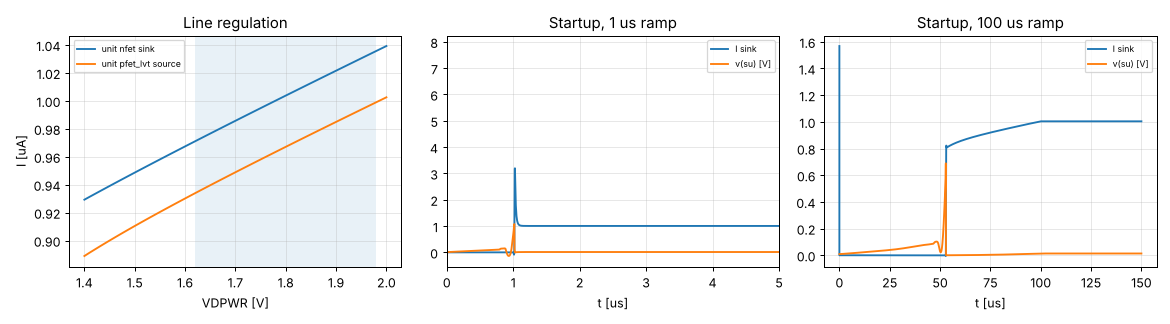
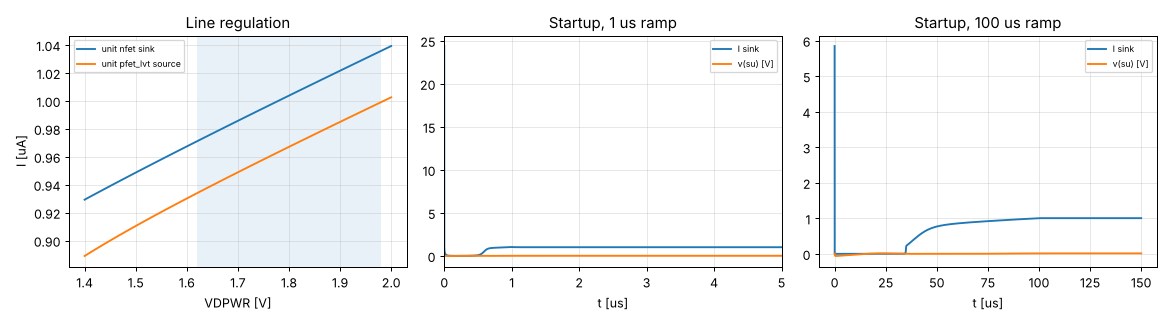
bias_gen: layout dummies in the schematic; nodesets for a robust .op
- MDN1/2 (nfet 2/2) and MDP1/2 (pfet_lvt 2/2), all terminals on the rail:
  netgen does not drop shorted devices, so they must be in the schematic.
- First corner sweep: at tt/27 C/1.98 V the plain .op converged to a
  non-physical point (v(nr) = 2e6 V, 0.32 uA) while the DC sweep and both
  startup transients give 1.036 uA. Nodesets near the running state; the
  corner report now cross-checks every .op current against the DC sweep.
  Sweep re-running.

Claude-Session: https://claude.ai/code/session_018xb9mH8bN9u9RTJdbtix1L

diff --git a/sim/bias/corners_report.py b/sim/bias/corners_report.py
@@ -19,11 +19,15 @@ for r in rows:
     r["su_ok"] = abs(r["ist_fast"] / r["isink"] - 1) < 0.01 and abs(r["ist_slow"] / r["isink"] - 1) < 0.01
 
 bad = [r for r in rows if r["rc"] != "0" or r["isink"] != r["isink"]]
+# the .op value must agree with the DC supply sweep at the same VDPWR (catches a non-converged .op)
+sweep_key = {1.62: "isink162", 1.8: "isink180", 1.98: "isink198"}
+op_bad = [r for r in rows if abs(r["isink"] / f(r, sweep_key[r["V"]]) - 1) > 0.01]
 nom = {r["corner"] + str(r["T"]): r for r in rows if r["V"] == 1.8}
 isk = [r["isink"] for r in rows]; isr = [r["isrc"] for r in rows]
 L = ["# bias_gen — Phase 2 corners (generated by corners_report.py)", "",
      f"{len(rows)} runs: corners tt/ff/ss/fs/sf × −40/27/125 °C × VDPWR 1.62/1.80/1.98 V. "
-     f"Failed runs: {len(bad)}.", "",
+     f"Failed runs: {len(bad)}. Runs where the .op current differs from the DC sweep by > 1 %: {len(op_bad)}"
+     + (" (" + ", ".join(r["tag"] for r in op_bad) + ")" if op_bad else "") + ".", "",
      "## Unit currents at VDPWR = 1.80 V (µA)", "",
      "| corner | sink −40 °C | sink 27 °C | sink 125 °C | source −40 °C | source 27 °C | source 125 °C |",
      "|---|---|---|---|---|---|---|"]

diff --git a/xschem/gen_bias_gen.py b/xschem/gen_bias_gen.py
@@ -38,6 +38,12 @@ p("MP2", "pbias", "pbias", "VDPWR", W=2, L=2, nf=1, mult=1)
 n("MN1", "nbias", "nbias", "VGND", W=2, L=2, nf=1, mult=1)
 n("MN2", "pbias", "nbias", "nr", W=2, L=2, nf=1, mult=4)
 s.dev(RX, "R1", {"P": "nr", "M": "VGND", "B": "VGND"}, W=0.35, L=R1_L, model="res_xhigh_po_0p35", spiceprefix="X", mult=1)
+# layout dummies (all terminals on the rail): ends of the MN1/MN2 row and of the MP1/MP2 row.
+# netgen does not drop shorted devices, so they are part of the schematic.
+for nm in ("MDN1", "MDN2"):
+    n(nm, "VGND", "VGND", "VGND", W=2, L=2, nf=1, mult=1)
+for nm in ("MDP1", "MDP2"):
+    p(nm, "VDPWR", "VDPWR", "VDPWR", W=2, L=2, nf=1, mult=1)
 # startup
 # MS2: a 0.42/50 PMOS drawn as 5 series devices of L = 10 um (a 50 um gate doesn't fit the 22 x 26 um
 # outline); same function: weak pull-up, ~0.2 uA. Stack: sup -> ms2_1 -> ... -> ms2_4 -> su

diff --git a/sim/bias/corners.md b/sim/bias/corners.md
@@ -1,0 +1,28 @@
+# bias_gen — Phase 2 corners (generated by corners_report.py)
+
+45 runs: corners tt/ff/ss/fs/sf × −40/27/125 °C × VDPWR 1.62/1.80/1.98 V. Failed runs: 0.
+
+## Unit currents at VDPWR = 1.80 V (µA)
+
+| corner | sink −40 °C | sink 27 °C | sink 125 °C | source −40 °C | source 27 °C | source 125 °C |
+|---|---|---|---|---|---|---|
+| tt | 0.730 | 1.004 | 1.512 | 0.698 | 0.967 | 1.466 |
+| ff | 0.743 | 1.016 | 1.511 | 0.709 | 0.975 | 1.461 |
+| ss | 0.718 | 0.995 | 1.509 | 0.690 | 0.963 | 1.468 |
+| fs | 0.754 | 1.038 | 1.546 | 0.728 | 1.007 | 1.508 |
+| sf | 0.708 | 0.975 | 1.463 | 0.671 | 0.932 | 1.410 |
+
+## Summary over all 45 runs
+
+| Quantity | min | max | Note |
+|---|---|---|---|
+| Unit sink (nfet 2/2) | 0.324 µA | 1.581 µA | spread 4.89× |
+| Unit source (pfet_lvt 2/2) | 0.304 µA | 1.544 µA | spread 5.08× |
+| bias_gen own current | 0.91 µA | 3.42 µA | |
+| Power-down supply current | 0.02 nA | 5418.54 nA | |
+| Line: sink change 1.62–1.98 V | | 64.5 % | worst at tt, 27 °C (target < 10 %) |
+| Startup (1 µs and 100 µs ramps reach the DC current within 1 %) | | | 44/45 runs |
+| Slow ramp: VDPWR when the sink reaches 0.5 µA | 0.62 V | 1.10 V | worst at sf, -40 °C, 1.98 V (must be < 1.62 V) |
+| Lowest `su` during the ramps | -0.23 V | | junction clamp; startup unaffected |
+
+Startup failures: tt_T27_V1.98

diff --git a/sim/bias/results.md b/sim/bias/results.md
@@ -11,8 +11,8 @@ Generated by `report.py` from `tb_bias.spice`.
 | Line: sink change over 1.62–1.98 V | 6.4 % | < 10 % (Phase 2 target) | ✅ |
 | Sink compliance (95 % of current) | 0.37 V | — |  |
 | Power-down supply current | 0.69 nA | — |  |
-| Startup, 1 µs ramp: settled to 1 % after ramp end | 0.12 µs | starts from 0 V | ✅ |
-| Startup, 100 µs ramp: VDPWR when current reaches 50 % | 0.95 V | starts before VDPWR = 1.62 V | ✅ |
+| Startup, 1 µs ramp: settled to 1 % after ramp end | 0.04 µs | starts from 0 V | ✅ |
+| Startup, 100 µs ramp: VDPWR when current reaches 50 % | 0.74 V | starts before VDPWR = 1.62 V | ✅ |
 | Startup node v(su) when running | 13 mV | MS1 off | ✅ |
 
 ![bias](plots/bias.png)
